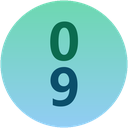
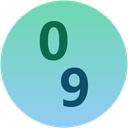
feat: 1.3.7 图标数字斜向错开（0 左上 / 9 右下）

Changed region(s): [[0.2812, 0.1562, 0.6875, 0.8438]]

diff --git a/src/common/store.js b/src/common/store.js
@@ -18,7 +18,7 @@ const RECORD_FILE = 'internal://files/taptally-records.txt'
 export const MAX_RECORDS = 5
 
 // 版本号（页面里显示，用来确认手环上跑的到底是哪一版）
-export const APP_VERSION = '1.3.6'
+export const APP_VERSION = '1.3.7'
 
 // 内存缓存
 let scoreCache = null // { t, b }

diff --git a/publish/gen_assets.py b/publish/gen_assets.py
@@ -49,7 +49,7 @@ def vgrad_circle(size, c_top, c_bot):
     return base.resize((size, size), Image.BILINEAR)
 
 
-def make_logo(size, ss=4, digit_fs=0.400, cy_top=0.322, cy_bot=0.678):
+def make_logo(size, ss=4, digit_fs=0.400, cx_top=0.418, cy_top=0.318, cx_bot=0.582, cy_bot=0.682):
     """圆形图标：上绿下蓝**渐变**背景（无分隔线），0 在上、9 在下，数字大而靠拢。
 
     手环列表按圆形裁切，所以图形本身画成圆；数字全部落在圆内安全区。
@@ -65,10 +65,11 @@ def make_logo(size, ss=4, digit_fs=0.400, cy_top=0.322, cy_bot=0.678):
 
     d = ImageDraw.Draw(img)
     font = ImageFont.truetype(FONT_B, int(S * digit_fs))
-    for txt, cy, color in (("0", cy_top, GREEN_TXT), ("9", cy_bot, BLUE_TXT)):
+    # 0 偏左上、9 偏右下：斜向错开，避免两个数字顶在一起
+    for txt, cx, cy, color in (("0", cx_top, cy_top, GREEN_TXT), ("9", cx_bot, cy_bot, BLUE_TXT)):
         bb = d.textbbox((0, 0), txt, font=font)
         w, h = bb[2] - bb[0], bb[3] - bb[1]
-        d.text((S * 0.5 - w / 2 - bb[0], S * cy - h / 2 - bb[1]), txt, font=font, fill=color)
+        d.text((S * cx - w / 2 - bb[0], S * cy - h / 2 - bb[1]), txt, font=font, fill=color)
     return img.resize((size, size), Image.LANCZOS)
 
 

diff --git a/docs/CHANGELOG.md b/docs/CHANGELOG.md
@@ -82,3 +82,8 @@
 - **去掉斜向分隔黑线**，上半绿、下半蓝改为**竖向渐变**过渡
 - 数字 **放大**（0.365S → 0.400S），上下**靠拢**（中心 0.272/0.728 → 0.322/0.678）
 - 新增 `vgrad_circle()` 生成渐变底色；`GREEN_C`(#6dd8b0) → `BLUE_C`(#92cdf5)
+
+## 1.3.7（versionCode 13）
+
+- 图标数字改为**斜向错开**：`0` 左上（中心 0.418, 0.318）、`9` 右下（中心 0.582, 0.682），
+  渐变背景与字号（0.40S）保持不变
